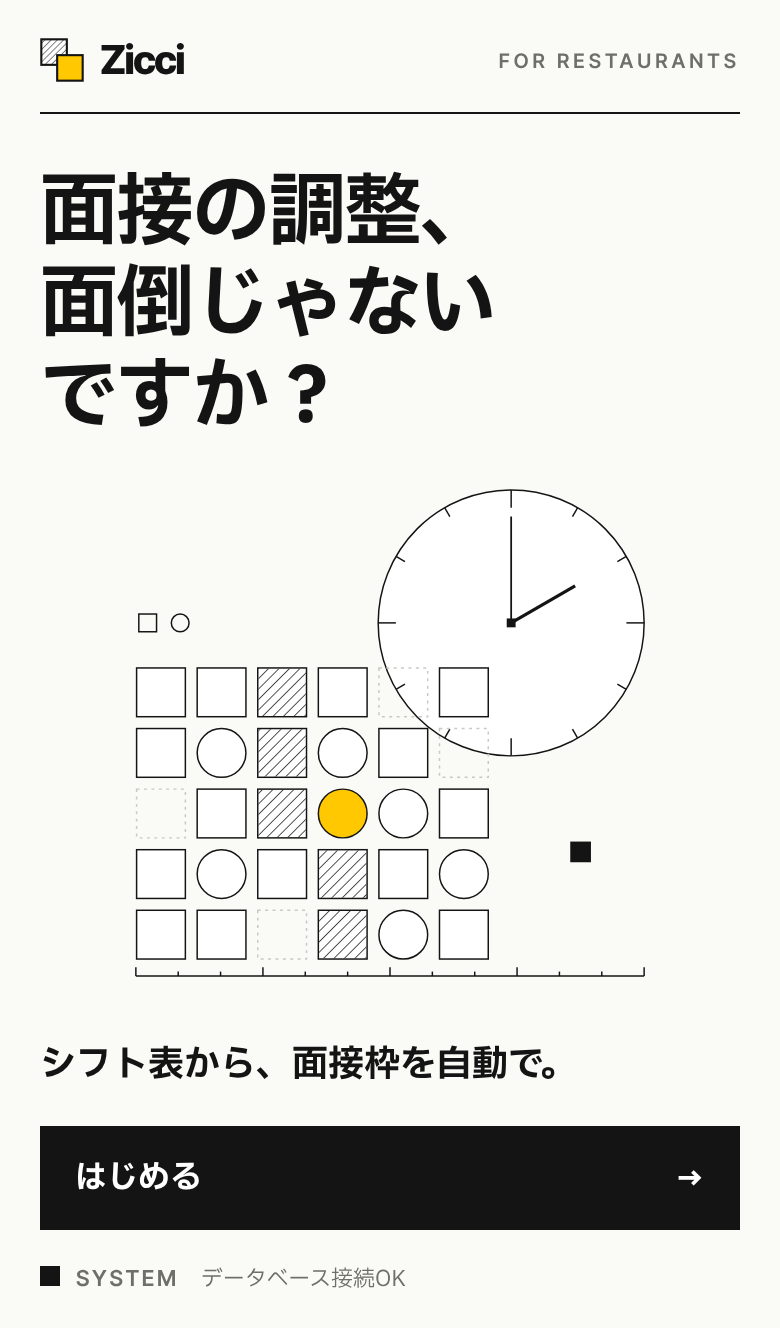
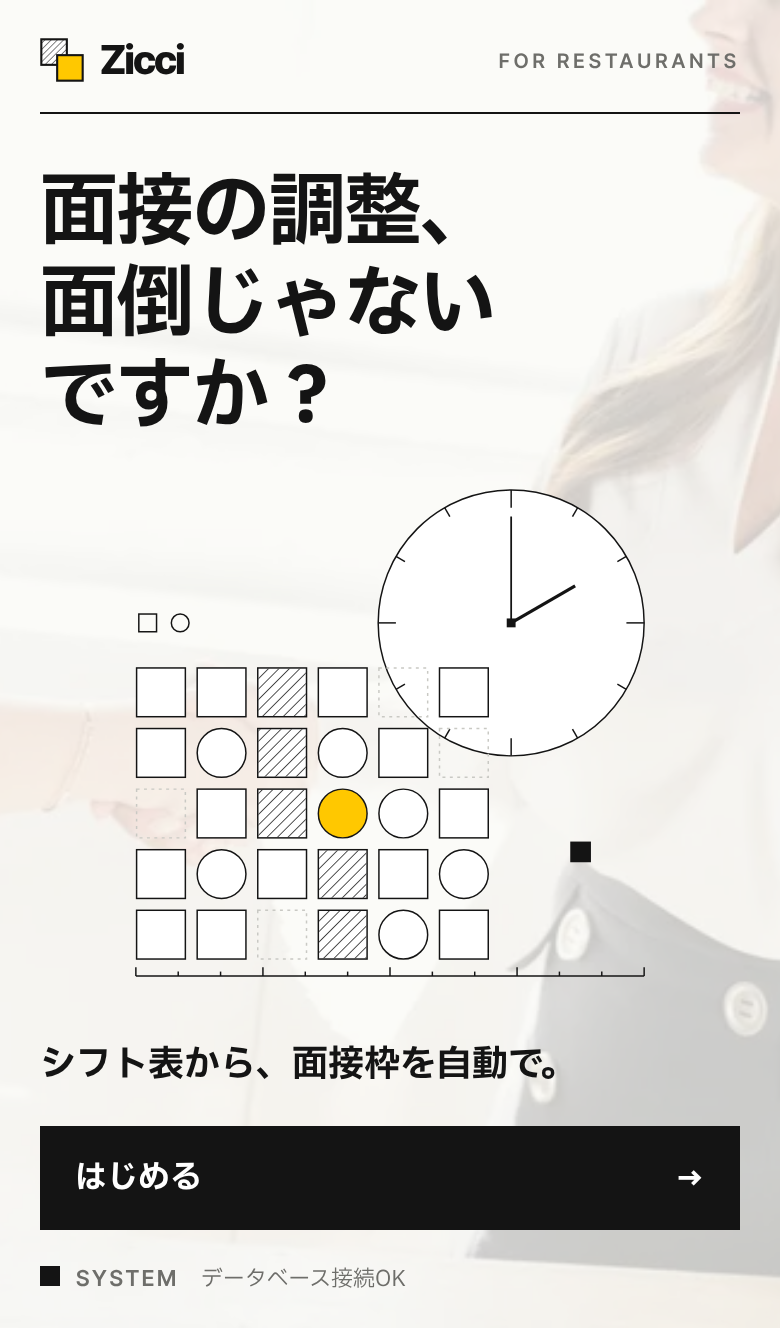
トップページの背景に写真（濃さ20%）を追加
Claude-Session: https://claude.ai/code/session_01Vw4yd7LEWEESTw6YcVpo5P

diff --git a/src/app/page.tsx b/src/app/page.tsx
@@ -1,3 +1,4 @@
+import Image from "next/image";
 import Link from "next/link";
 import { Suspense } from "react";
 import { Logo } from "@/components/logo";
@@ -7,42 +8,57 @@ import { SystemStatus } from "./system-status";
 /** トップページ：1枚のポスターのように、文字は最小限 */
 export default function Home() {
   return (
-    <main className="mx-auto flex h-svh min-h-[34rem] w-full max-w-md flex-col px-5 pt-4 pb-4">
-      <header className="flex items-center justify-between border-b border-ink pb-3">
-        <Logo size={22} />
-        <span className="num text-[10px] font-semibold tracking-[0.2em] text-gray">FOR RESTAURANTS</span>
-      </header>
-
-      <h1 className="mt-[4svh] text-[clamp(2rem,10vw,2.6rem)] leading-[1.18] font-bold tracking-tight">
-        面接の調整、
-        <br />
-        面倒じゃない
-        <br />
-        ですか？
-      </h1>
-
-      {/* 空いた高さいっぱいにグラフィックを置く（画面が小さければ縮む） */}
-      <div className="flex min-h-0 flex-1 items-center justify-center py-[3svh]">
-        <PosterGraphic className="h-full max-h-full w-full" />
+    <>
+      {/* 背景写真（濃さ20%）。画面全体に敷き、文字やグラフィックの読みやすさを優先する */}
+      <div className="pointer-events-none fixed inset-0 -z-10" aria-hidden>
+        <Image
+          src="/images/top-bg.jpg"
+          alt=""
+          fill
+          preload
+          sizes="100vw"
+          className="object-cover object-[45%_center] opacity-20"
+        />
       </div>
+      <main className="mx-auto flex h-svh min-h-[34rem] w-full max-w-md flex-col px-5 pt-4 pb-4">
+        <header className="flex items-center justify-between border-b border-ink pb-3">
+          <Logo size={22} />
+          <span className="num text-[10px] font-semibold tracking-[0.2em] text-gray">
+            FOR RESTAURANTS
+          </span>
+        </header>
 
-      <p className="text-lg font-bold">シフト表から、面接枠を自動で。</p>
+        <h1 className="mt-[4svh] text-[clamp(2rem,10vw,2.6rem)] leading-[1.18] font-bold tracking-tight">
+          面接の調整、
+          <br />
+          面倒じゃない
+          <br />
+          ですか？
+        </h1>
 
-      <Link
-        href="/admin"
-        className="mt-4 flex min-h-13 items-center justify-between border border-ink bg-ink px-4 font-bold text-white"
-      >
-        はじめる
-        <span className="num" aria-hidden>
-          →
-        </span>
-      </Link>
+        {/* 空いた高さいっぱいにグラフィックを置く（画面が小さければ縮む） */}
+        <div className="flex min-h-0 flex-1 items-center justify-center py-[3svh]">
+          <PosterGraphic className="h-full max-h-full w-full" />
+        </div>
 
-      <footer className="pt-4">
-        <Suspense fallback={<p className="text-[11px] text-gray">…</p>}>
-          <SystemStatus compact />
-        </Suspense>
-      </footer>
-    </main>
+        <p className="text-lg font-bold">シフト表から、面接枠を自動で。</p>
+
+        <Link
+          href="/admin"
+          className="mt-4 flex min-h-13 items-center justify-between border border-ink bg-ink px-4 font-bold text-white"
+        >
+          はじめる
+          <span className="num" aria-hidden>
+            →
+          </span>
+        </Link>
+
+        <footer className="pt-4">
+          <Suspense fallback={<p className="text-[11px] text-gray">…</p>}>
+            <SystemStatus compact />
+          </Suspense>
+        </footer>
+      </main>
+    </>
   );
 }
